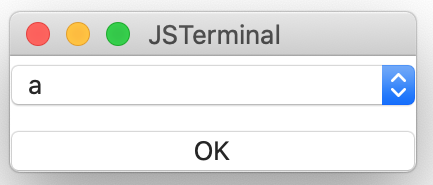
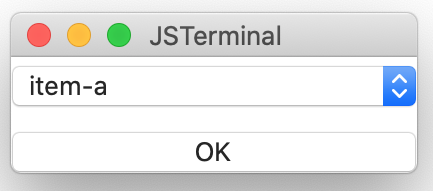
KMPopupMenu: Fix property definition

diff --git a/Source/Component/KMPopupMenu.swift b/Source/Component/KMPopupMenu.swift
@@ -53,6 +53,7 @@ public class KMPopupMenu: KCPopupMenu, AMBComponent
 		mReactObject	= robj
 
 		/* items */
+		addScriptedProperty(object: robj, forProperty: KMPopupMenu.ItemsItem)
 		if let val = robj.arrayValue(forProperty: KMPopupMenu.ItemsItem) {
 			if let arr = val as? Array<String> {
 				super.removeAllItems()
@@ -78,12 +79,8 @@ public class KMPopupMenu: KCPopupMenu, AMBComponent
 			}
 		})
 
-		/* Index */
-		if let _ = robj.int32Value(forProperty: KMPopupMenu.IndexItem) {
-			/* Already allocated, but the parameter is ignored */
-		} else {
-			robj.addScriptedPropertyName(name: KMPopupMenu.IndexItem)
-		}
+		/* Index (readonly) */
+		addScriptedProperty(object: robj, forProperty: KMPopupMenu.IndexItem)
 		robj.setInt32Value(value: Int32(self.indexOfSelectedItem), forProperty: KMPopupMenu.IndexItem)
 
 		/* Callback */

diff --git a/Document/Components/PopupMenu.md b/Document/Components/PopupMenu.md
@@ -1,17 +1,29 @@
 # PopupMenu Component
 
-## Syntax
+## Sample
 ````
-menu: PopupMenu {
-  items: Array ["a", "b", "c"]
-  //index: Int   0
-  selected: Event(index) %{
-    console.log("selected = " + index) ;
-  %}
+top: VBox {
+    index: Int 0
+    menu: PopupMenu {
+        items: Array ["item-a", "item-b", "item-c"]
+        selected: Event(index) %{
+                console.log("selected = " + index) ;
+                top.index = index ;
+        %}
+    }
+    ok_button: Button {
+        title:  String "OK"
+        pressed: Event() %{
+                console.log("pressed: OK -> " + top.index) ;
+                leaveView(1) ;
+        %}
+    }
 }
 ````
 
 ![Popup-menu View](./Images/popup-menu-view.png)
+
+You can find the entire implementation at [popup-menu.jspkg](https://github.com/steelwheels/JSTerminal/tree/master/Resource/Sample/popup-menu.jspkg).
 
 ### Properties
 |Name   |Type           |Description                        |
